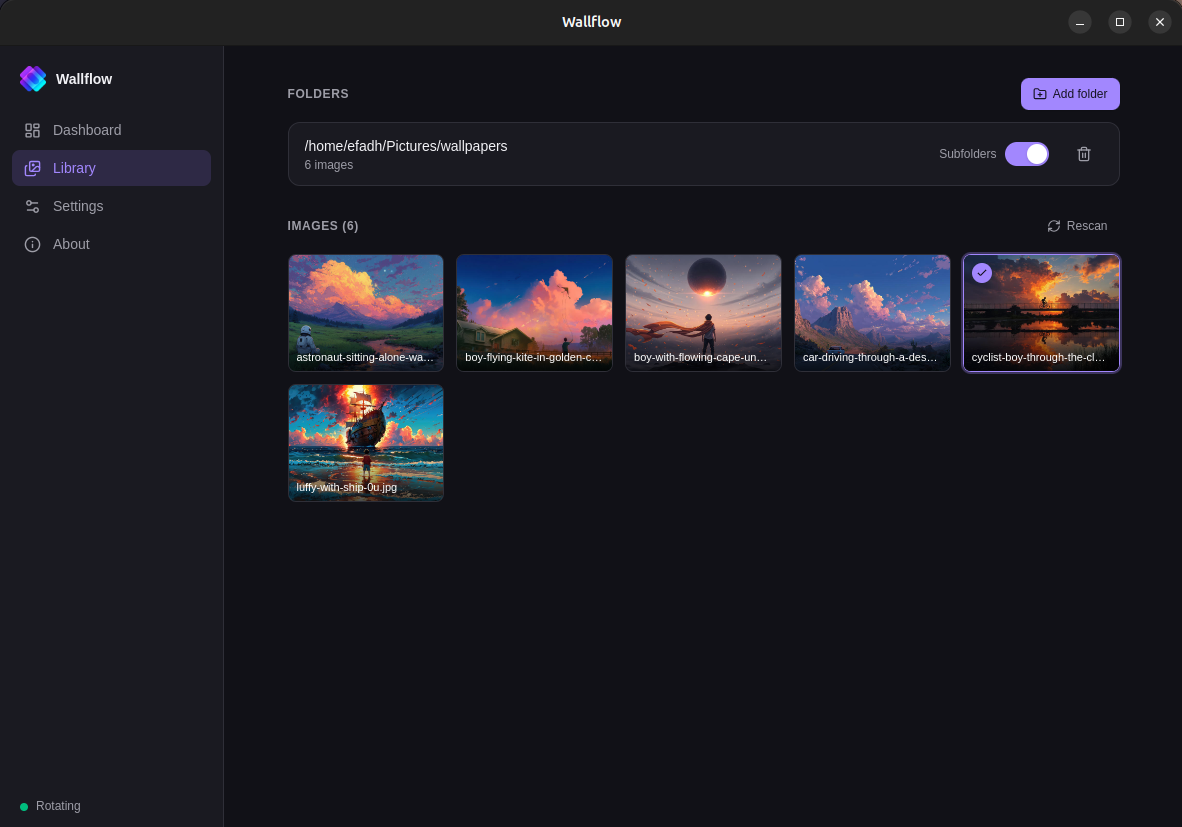
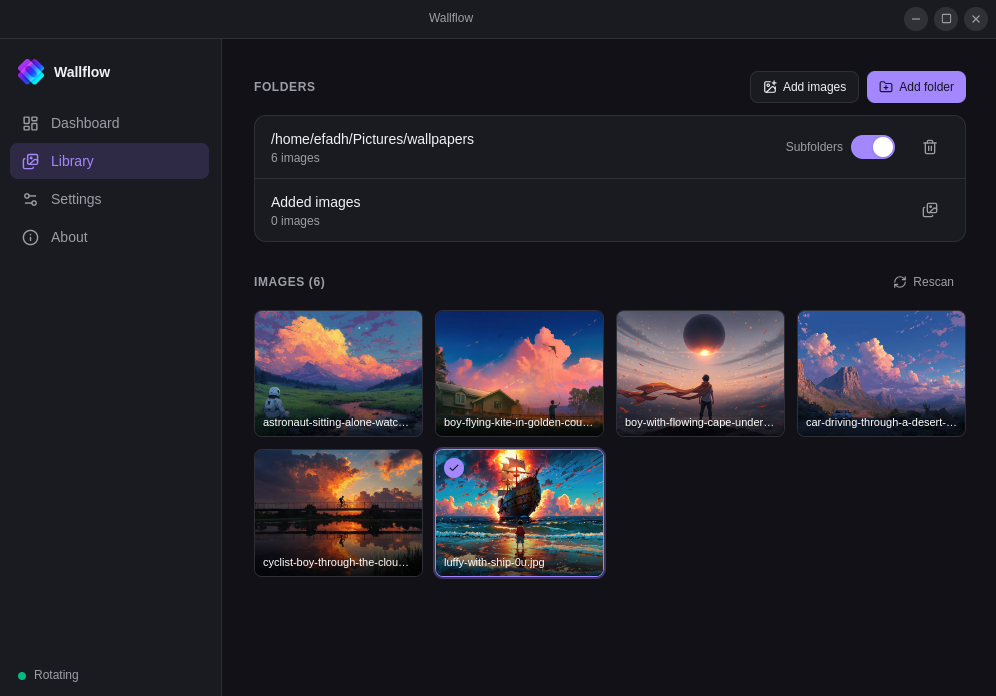
docs: update README and website content to reflect image management features
- Revised README to clarify the ability to add individual images alongside folders.
- Updated website content to enhance descriptions of image management capabilities and user interactions.
- Adjusted the layout in the Library component to better represent added images and folders.
- Modified CSS for improved layout consistency across the application.

diff --git a/website/index.html b/website/index.html
@@ -6,7 +6,7 @@
     <title>Wallflow — rotate your desktop wallpaper on a schedule</title>
     <meta
       name="description"
-      content="Wallflow picks images from folders you choose and rotates your desktop background on a schedule. A small tray app for Linux, Windows and macOS."
+      content="Wallflow picks images from folders you choose, or files you add, and rotates your desktop background on a schedule. A small tray app for Linux, Windows and macOS."
     />
     <link rel="apple-touch-icon" sizes="180x180" href="assets/favicons/apple-touch-icon.png" />
     <link rel="icon" type="image/png" sizes="32x32" href="assets/favicons/favicon-32x32.png" />
@@ -53,7 +53,7 @@
         <div class="wrap hero-inner">
           <div class="hero-copy">
             <p class="eyebrow">Desktop app for Linux, Windows and macOS</p>
-            <h1>Rotate your wallpaper through folders of your own images, on a schedule you choose.</h1>
+            <h1>Rotate your wallpaper through your own images, on a schedule you choose.</h1>
             <p class="lede">
               Wallflow lives in the system tray, starts with your session, and stays out of the way. Built with Tauri 2
               — the installers are a few megabytes and there is no bundled browser runtime.
@@ -84,10 +84,10 @@
         <div class="wrap">
           <header class="section-head">
             <p class="eyebrow">What it does</p>
-            <h2>Your folders. Your schedule. Your desktop.</h2>
+            <h2>Your images. Your schedule. Your desktop.</h2>
             <p>
-              Point Wallflow at the pictures you already have. It picks them up, rotates them, and lets you skip, pause,
-              or apply one immediately.
+              Point Wallflow at folders you already have, or add individual files. Folders are watched in place; added
+              files are copied in so they stay in rotation. Skip, pause, or apply one immediately.
             </p>
           </header>
 
@@ -97,6 +97,13 @@
               <p>
                 Point it at one or more folders. JPG, JPEG, PNG, WebP and BMP files are picked up. New images join the
                 rotation without a restart.
+              </p>
+            </li>
+            <li>
+              <h3>Add individual images</h3>
+              <p>
+                Pick files one by one. Wallflow copies them into its data directory so they stay in rotation even if you
+                move the originals. Delete a copy from Library when you no longer want it.
               </p>
             </li>
             <li>
@@ -118,7 +125,7 @@
               <h3>Thumbnail library</h3>
               <p>
                 Browse the whole library as thumbnails. Click one to apply it immediately, or exclude images you would
-                rather not see.
+                rather not see. Filter the gallery to the copies you added.
               </p>
             </li>
             <li>
@@ -154,19 +161,21 @@
             <li class="demo-step">
               <div class="demo-copy">
                 <span class="step-num">1</span>
-                <h3>Add folders in Library</h3>
+                <h3>Add folders or images in Library</h3>
                 <p>
-                  Open Library and click <strong>Add folder</strong>. Wallflow scans for JPG, JPEG, PNG, WebP and BMP
-                  files. Turn on <strong>Subfolders</strong> to include nested directories, or hit
+                  Open Library and click <strong>Add folder</strong> to watch a directory, or
+                  <strong>Add images</strong> to copy individual files into Wallflow. It scans for JPG, JPEG, PNG, WebP
+                  and BMP. Turn on <strong>Subfolders</strong> to include nested directories, or hit
                   <strong>Rescan</strong>
-                  after you drop in new pictures. Click a thumbnail to apply it now — the current wallpaper gets a
-                  checkmark.
+                  after you drop in new pictures. The <strong>Added images</strong> row shows how many copies you have;
+                  the icon beside it filters the gallery to those copies. Click a thumbnail to apply it now — the
+                  current wallpaper gets a checkmark.
                 </p>
               </div>
               <figure>
                 <img
                   src="assets/screenshots/library.png"
-                  alt="Wallflow Library: a watched folder with six image thumbnails, the current wallpaper marked with a check"
+                  alt="Wallflow Library: watched folders, added images, and a gallery of thumbnails with the current wallpaper marked"
                   width="1280"
                   height="800"
                 />

diff --git a/src/routes/Dashboard.tsx b/src/routes/Dashboard.tsx
@@ -38,10 +38,10 @@ export function Dashboard({ onBrowse }: { onBrowse: () => void }) {
           <EmptyState
             icon={<ImageIcon size={24} />}
             title="No wallpapers yet"
-            description="Add a folder of images and Wallflow will start rotating your desktop background."
+            description="Add a folder or individual images and Wallflow will start rotating your desktop background."
             action={
               <Button variant="primary" onClick={onBrowse}>
-                Choose a folder
+                Open Library
               </Button>
             }
           />

diff --git a/src/routes/Library.tsx b/src/routes/Library.tsx
@@ -144,8 +144,8 @@ export function Library() {
           {folders.length === 0 && addedCount === 0 ? (
             <EmptyState
               icon={<FolderOpen size={24} />}
-              title="No folders yet"
-              description="Pick a folder of images. Everything inside it joins the rotation."
+              title="Nothing here yet"
+              description="Pick a folder of images, or add individual files. Everything you add joins the rotation."
             />
           ) : (
             <>

diff --git a/website/styles.css b/website/styles.css
@@ -345,7 +345,7 @@ pre code {
   margin: 0;
   padding: 0;
   display: grid;
-  grid-template-columns: repeat(4, 1fr);
+  grid-template-columns: repeat(3, 1fr);
   gap: 1rem;
 }
 

diff --git a/README.md b/README.md
@@ -1,8 +1,8 @@
 # Wallflow
 
-A small desktop app that rotates your wallpaper through folders of your own images,
-on a schedule you choose. It lives in the system tray, starts with your session, and
-runs on Linux, Windows and macOS.
+A small desktop app that rotates your wallpaper through your own images — folders
+you watch, or files you add one by one — on a schedule you choose. It lives in the
+system tray, starts with your session, and runs on Linux, Windows and macOS.
 
 Built with [Tauri 2](https://v2.tauri.app) — the installers are a few megabytes and
 there is no bundled browser runtime.
@@ -10,12 +10,14 @@ there is no bundled browser runtime.
 ## Features
 
 - Point it at one or more folders; JPG, JPEG, PNG, WebP and BMP files are picked up.
-- Add individual images; they are copied into the app’s data directory and join the rotation.
+- Add individual images; Wallflow copies them into its data directory so they stay in
+  the rotation even if you move the originals. The same file is not copied twice.
+  Delete a copy from Library when you no longer want it.
 - Choose the interval in seconds, minutes or hours.
 - Shuffle (every image once before repeating), sequential, or plain random order.
 - Fill, fit, stretch, center or tile, mapped to whatever your desktop calls it.
 - Browse the whole library as thumbnails; click one to apply it immediately, or
-  exclude images you would rather not see.
+  exclude images you would rather not see. Filter the gallery to added copies only.
 - Skip forwards and backwards, or pause, from the window or the tray menu.
 - New images dropped into a watched folder join the rotation without a restart.
 - A different image per monitor on Windows and macOS.
@@ -81,13 +83,15 @@ confirm _Open_ again.
 
 ## Where things are stored
 
-|            | Linux                                                     | Windows                                              | macOS                                                              |
-| ---------- | --------------------------------------------------------- | ---------------------------------------------------- | ------------------------------------------------------------------ |
-| Settings   | `~/.config/com.efadhemon.wallflow/config.json`            | `%APPDATA%\com.efadhemon.wallflow\config.json`       | `~/Library/Application Support/com.efadhemon.wallflow/config.json` |
-| Log        | `~/.local/share/com.efadhemon.wallflow/logs/wallflow.log` | `%APPDATA%\com.efadhemon.wallflow\logs\wallflow.log` | `~/Library/Logs/com.efadhemon.wallflow/wallflow.log`               |
-| Thumbnails | `~/.cache/com.efadhemon.wallflow/`                        | `%LOCALAPPDATA%\com.efadhemon.wallflow\`             | `~/Library/Caches/com.efadhemon.wallflow/`                         |
+|              | Linux                                                     | Windows                                              | macOS                                                              |
+| ------------ | --------------------------------------------------------- | ---------------------------------------------------- | ------------------------------------------------------------------ |
+| Settings     | `~/.config/com.efadhemon.wallflow/config.json`            | `%APPDATA%\com.efadhemon.wallflow\config.json`       | `~/Library/Application Support/com.efadhemon.wallflow/config.json` |
+| Added images | `~/.local/share/com.efadhemon.wallflow/images/`           | `%APPDATA%\com.efadhemon.wallflow\images\`           | `~/Library/Application Support/com.efadhemon.wallflow/images/`     |
+| Log          | `~/.local/share/com.efadhemon.wallflow/logs/wallflow.log` | `%APPDATA%\com.efadhemon.wallflow\logs\wallflow.log` | `~/Library/Logs/com.efadhemon.wallflow/wallflow.log`               |
+| Thumbnails   | `~/.cache/com.efadhemon.wallflow/`                        | `%LOCALAPPDATA%\com.efadhemon.wallflow\`             | `~/Library/Caches/com.efadhemon.wallflow/`                         |
 
-The About screen links to all three and shows the tail of the log.
+The About screen links to settings, logs and the thumbnail cache. Added images are
+copies; deleting one in Library removes Wallflow’s file, not the original.
 
 ## Building from source
 
